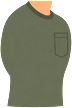
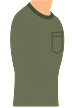
Aid station: Travis's redrawn torso (handoff A8c)
Straight back, flat front, about 25% narrower at the middle.

Claude-Session: https://claude.ai/code/session_01NNuGcPYRv9PiVLdxirixLQ

diff --git a/scene/runner.js b/scene/runner.js
@@ -369,7 +369,7 @@ function makeDog(imgs, parts, opt){
   function loadTravis(){var tn=names.concat(['pbj-0','pbj-1','pbj-2','pbj-3']),ti={},tl=tn.length;
     tn.forEach(function(n){var i=new Image();i.onload=i.onerror=function(){if(--tl===0&&tn.every(function(k){return ti[k].naturalWidth>0})){
         timg=ti;tv=makePuppet(ti,PARTS,{imgScale:0.3,walk:true});if(aidBtn&&!(G&&!G.over))aidBtn.hidden=false}};
-      i.src='scene/travis/'+n+'.webp?v=2';ti[n]=i})}
+      i.src='scene/travis/'+n+'.webp?v=3';ti[n]=i})}
   // ---- Trail mini-game: roots and rocks scroll in on the floor; tap to jump them. One clip ends the run.
   var SPD=1, st=-1;                    // world speed multiplier (drops during a stumble), stumble timer
   var GS=1, gsGoal=1, mile=0, signs=[], burst=-1, pumpT=-1;   // game speed (builds every 5 clears), mile markers, celebration timers

diff --git a/index.html b/index.html
@@ -269,6 +269,6 @@ h1.on{animation:on .5s steps(1) forwards,glitch 4.5s steps(1) 1.6s infinite;anim
 </script>
 <script src="next-up/next-up.js?v=2"></script>
 <script src="scene/outfit-fit.js?v=2"></script>
-<script src="scene/runner.js?v=18"></script>
+<script src="scene/runner.js?v=19"></script>
 <script src="gear/carousel.js?v=2"></script>
 </body></html>
